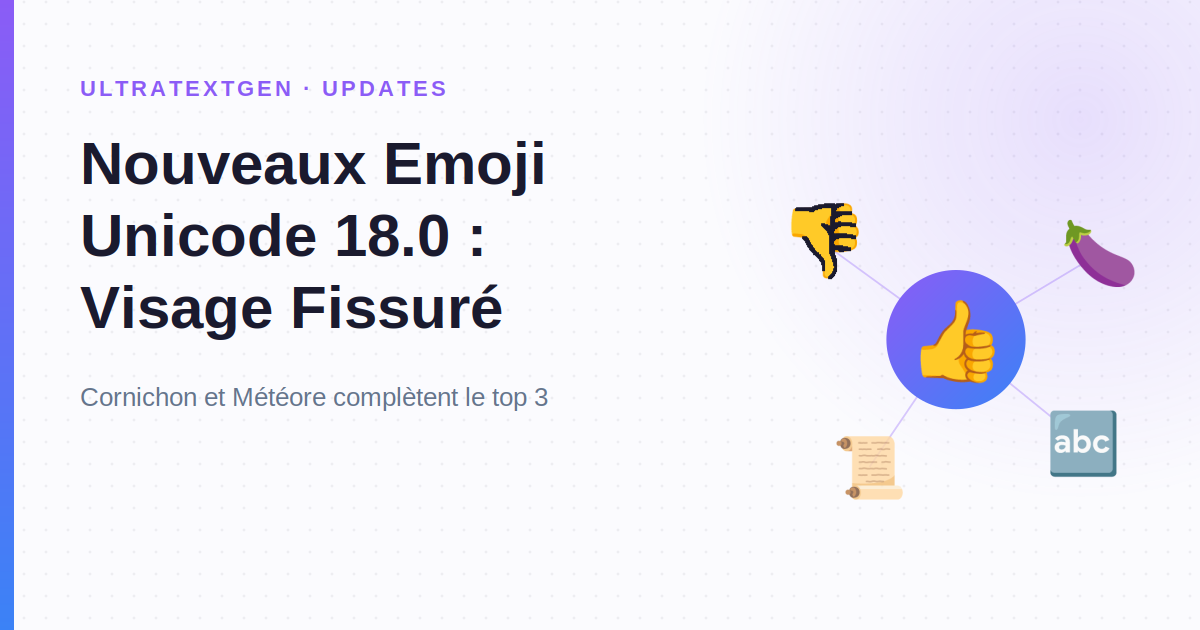
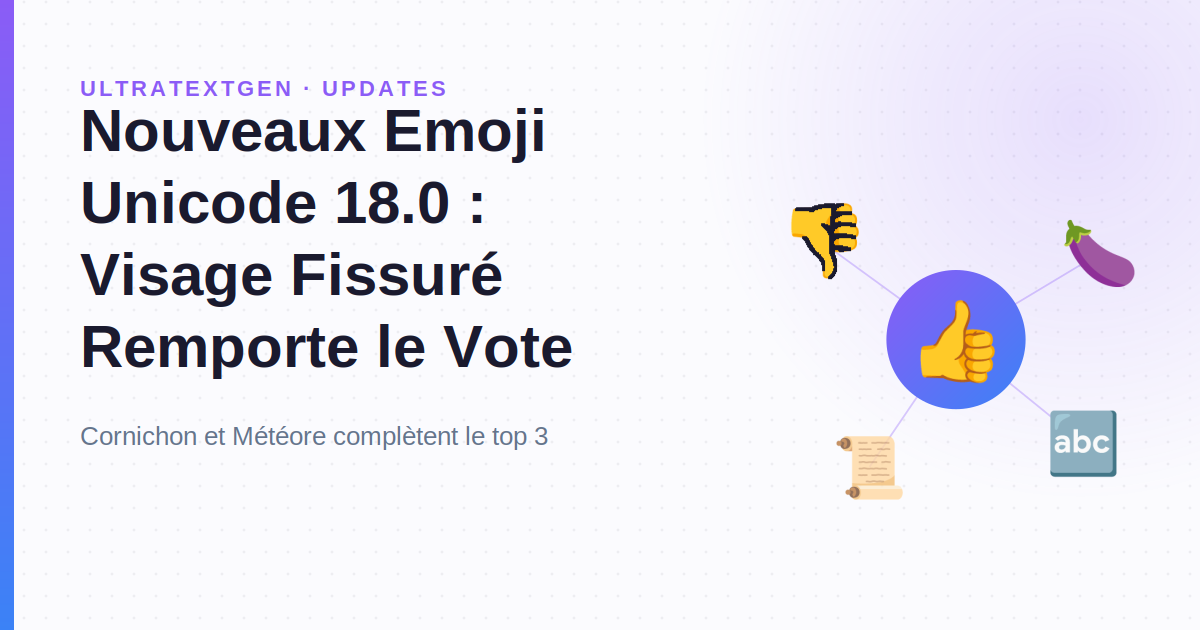
fix: card titles were silently truncated to three lines
og_png_svg wrapped the title and kept [:3], discarding the rest with nothing
in the output to say so. The tone-of-voice standard makes titles longer -- they
carry the answer now rather than the filing system -- and the pass that applied
it to nine pages truncated seven of them mid-phrase ("Middle East Currency
Symbols: 5 Have Their Own," with the answer cut off). It was caught by opening
a rendered PNG, which is the only place it was visible.

Measured across the registry first: 24 of 1,450 titles were already in that
state, including live cards reading "Cracking Face" where the title says
"Cracking Face Wins the Vote" and a Telegram card that dropped "32,768
Characters".

The cap was one line too tight. Four lines fit and five do not, and that is
geometry: the block is centred on y=250 and grows upward by 33 per line, so at
four the first line's ascender sits at y=106 and clears the kicker baseline at
y=96, while at five it sits at y=73 and collides. OG_TITLE_MAX_LINES is now 4,
which repairs 17 of the 24 outright; their cards are regenerated here, and only
the OG PNGs changed, confirming the hero path does not wrap.

What still cannot fit is reported rather than dropped. _fit_title collects every
overflow with the words it lost and the run prints them at the end;
--strict-titles exits 1. Reported by default because 24 were already overflowing
and a check red regardless of your change is one people learn to ignore -- the
[…]

Changed region(s): [[0.0617, 0.1508, 0.4933, 0.7238]]

diff --git a/scripts/generate-site-art.py b/scripts/generate-site-art.py
@@ -3036,9 +3036,41 @@ def hero_svg(slug, title, motif, kicker, a=PURPLE, b=BLUE):
 </svg>"""
 
 
+# The card's title block holds at most this many lines. Four is a geometric
+# limit, not a taste call: the block is centred on y=250 and grows upward by 33
+# per line, so at four lines the first line's ascender sits at y=106, clearing
+# the kicker baseline at y=96, and at five it sits at y=73 and collides with it.
+# Anything past the cap cannot be drawn, so `_fit_title` reports it rather than
+# dropping it.
+OG_TITLE_MAX_LINES = 4
+
+# Titles that overflowed during this run: (slug, title, lines, dropped words).
+# Collected rather than raised so one run reports every offender at once.
+TITLE_OVERFLOWS = []
+
+
+def _fit_title(slug, title, native):
+    """Wrap a card title to the lines the layout can actually draw.
+
+    This used to be a bare `[:3]`, which discarded the remainder in silence. An
+    answer-first title is longer than the ones the card was tuned for, and a run
+    that retitled nine pages truncated seven of them mid-phrase with nothing in
+    the output to say so -- 'Middle East Currency Symbols: 5 Have Their Own,'
+    with the answer cut off. The 24 pages already in that state when this was
+    added are why the overflow is reported rather than fatal by default: a check
+    that is red regardless of your change is one people learn to ignore. Pass
+    --strict-titles to make it fatal.
+    """
+    lines = smart_wrap(title, wrap_width_for(title, native))
+    if len(lines) > OG_TITLE_MAX_LINES:
+        TITLE_OVERFLOWS.append((slug, title, len(lines), lines[OG_TITLE_MAX_LINES:]))
+        lines = lines[:OG_TITLE_MAX_LINES]
+    return lines
+
+
 def og_png_svg(slug, title, sub, motif, kicker, a=PURPLE, b=BLUE, native=None):
     p = "o" + slug.replace("-", "")[:8]
-    wrapped = smart_wrap(title, wrap_width_for(title, native))[:3]
+    wrapped = _fit_title(slug, title, native)
     tspans = ""
     y0 = 250 - (len(wrapped) - 1) * 33
     for i, line in enumerate(wrapped):
@@ -3563,6 +3595,12 @@ def main():
     ap.add_argument("--no-page-motifs", action="store_true",
                     help="disable deriving a page's motif from its own copy-tiles "
                          "(see motif_from_page) and use the registered motif as-is.")
+    ap.add_argument("--strict-titles", action="store_true",
+                    help="exit non-zero if any card title needs more lines than the "
+                         "layout can draw. Off by default because 24 registered pages "
+                         "were already in that state when the check was added, and a "
+                         "check that is red regardless of your change is one people "
+                         "learn to ignore.")
     ap.add_argument("--force", action="store_true",
                     help="re-render pages whose art already exists. Without this, an "
                          "existing hero+OG pair is left alone — so a run only fills gaps "
@@ -3617,6 +3655,14 @@ def main():
         selected = keep
 
     if a.dry_run:
+        # og_png_svg never runs on a dry run, so fit the titles here — that makes
+        # `--dry-run --all --strict-titles` a whole-site title check costing no
+        # rasterisation.
+        # over `selected + already`, not `selected`: whether a title fits is a
+        # property of the registry, not of whether a PNG happens to be on disk,
+        # and without `already` a dry run of a finished tree measures nothing.
+        for slug in selected + already:
+            _fit_title(slug, PAGES[slug][0], _native_for_slug(slug))
         if already:
             print(f"[dry-run] {len(already)} page(s) already have their art — skipping "
                   f"(use --force to re-render).")
@@ -3626,7 +3672,7 @@ def main():
         if a.all:
             print(f"  assets/hero/{HOME_CARD}.svg  +  assets/og/{HOME_CARD}.png")
             print(f"  + {len(LOCALIZED_HOME)} localized homepage card(s)")
-        return 0
+        return report_title_overflows(a.strict_titles)
 
     if already and not a.dry_run:
         print(f"{len(already)} page(s) already have their art — skipped "
@@ -3651,7 +3697,7 @@ def main():
     # business rewriting the homepage's art.
     if not a.all:
         print(f"wrote {n} hero SVG + OG PNG pair(s) (scoped to: {', '.join(prefixes)})")
-        return 0
+        return report_title_overflows(a.strict_titles)
 
     with open(os.path.join(HERO, f"{HOME_CARD}.svg"), "w", encoding="utf-8") as f:
         f.write(hero_svg(HOME_CARD, "Fancy Text Generator", m_brand, K_SITE))
@@ -3679,6 +3725,31 @@ def main():
     print("\nNOTE: a full run rewrites every asset. Review `git status` and revert any "
           "file whose only change is a re-render before committing.")
     report_orphan_keys()
+    return report_title_overflows(a.strict_titles)
+
+
+def report_title_overflows(strict):
+    """Print every title this run could not draw in full, and say what was lost.
+
+    Reported by default, fatal under --strict-titles. The distinction matters:
+    24 registered titles already overflowed when this was added, so a hard
+    failure would have been red on every run regardless of the change being
+    made. Same call, and same reasoning, as check-image-assets.py being
+    informational while check-new-page-image-assets.py gates.
+    """
+    if not TITLE_OVERFLOWS:
+        return 0
+    print(f"\n{len(TITLE_OVERFLOWS)} card title(s) need more than "
+          f"{OG_TITLE_MAX_LINES} lines and were cut:")
+    for slug, title, n_lines, dropped in TITLE_OVERFLOWS:
+        print(f"  {slug}  ({n_lines} lines, {OG_TITLE_MAX_LINES} fit)")
+        print(f"      title:   {title}")
+        print(f"      dropped: {' '.join(dropped)}")
+    print("  Fix: put the head term in the card title and the rest in the sub line, "
+          "which does not wrap.")
+    if strict:
+        print("  --strict-titles: failing.")
+        return 1
     return 0
 
 

diff --git a/CLAUDE.md b/CLAUDE.md
@@ -1779,6 +1779,38 @@ already existed as an undocumented positional argument; nobody used it because
 nothing said it was there and the dangerous path was the default one. The
 positional still works, hidden, for backwards compatibility.
 
+**A card title longer than the layout was silently truncated (fixed 2026-09-01).**
+`og_png_svg` wrapped the title and kept `[:3]`, discarding the rest with nothing in
+the output to say so. The tone-of-voice standard makes titles *longer* — they now
+carry the answer, not the filing system — and the first pass that applied it to nine
+pages truncated **seven** of them mid-phrase: `Middle East Currency Symbols: 5 Have
+Their Own,` with the answer cut off. It was caught by reading a rendered PNG, which
+is the only place it was visible.
+
+Two things changed, and the split matters:
+
+* **The cap was one line too tight.** Four lines fit and five do not, and that is
+  geometry rather than taste: the block is centred on y=250 and grows upward by 33
+  per line, so at four the first line's ascender sits at y=106 and clears the kicker
+  baseline at y=96, and at five it sits at y=73 and collides. `OG_TITLE_MAX_LINES`
+  is 4. That alone repaired **17 of the 24** titles already overflowing.
+* **What still cannot fit is reported, never dropped.** `_fit_title` collects every
+  overflow with the words it lost, and the run prints them at the end.
+  `--strict-titles` makes it exit 1. Reported by default because 24 titles were
+  already in that state — the same call as `check-image-assets.py` informing while
+  `check-new-page-image-assets.py` gates, and for the same reason.
+
+`--dry-run` measures titles without rasterising anything (over the pages already
+holding art too, not just the ones missing it — whether a title fits is a property
+of the registry, not of what is on disk), so **`--dry-run --all --strict-titles` is
+a cheap whole-site title check**.
+
+**The fix for an overflow is never to shorten the answer away.** Put the head term
+in the card title and the answer in the **sub** line, which does not wrap. Seven
+titles remain over the cap, all `unicode-18` emoji-vote and beta-review pages in
+`ar`, `de`, `ko`, `pl`, `ru`, `th`; shortening those is a content decision per page,
+not a mechanical one.
+
 **Page-derived motifs (added 2026-08-11).** The registry in `PAGES` pairs each
 page with a motif function. 718 of 1,209 pages were registered against a motif
 that takes **no per-page argument**, so every page sharing it got a
